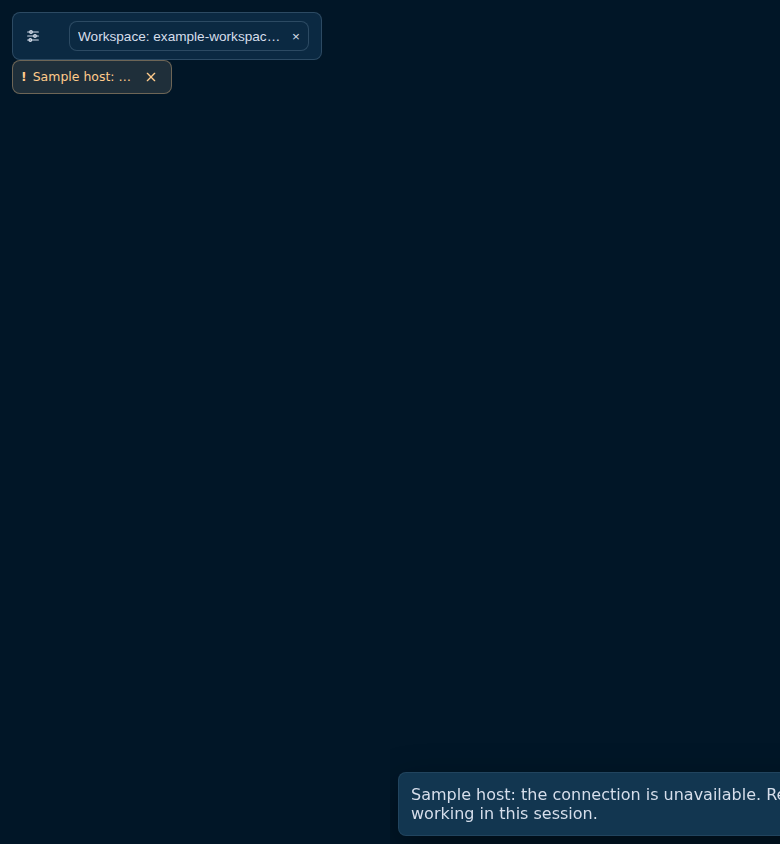
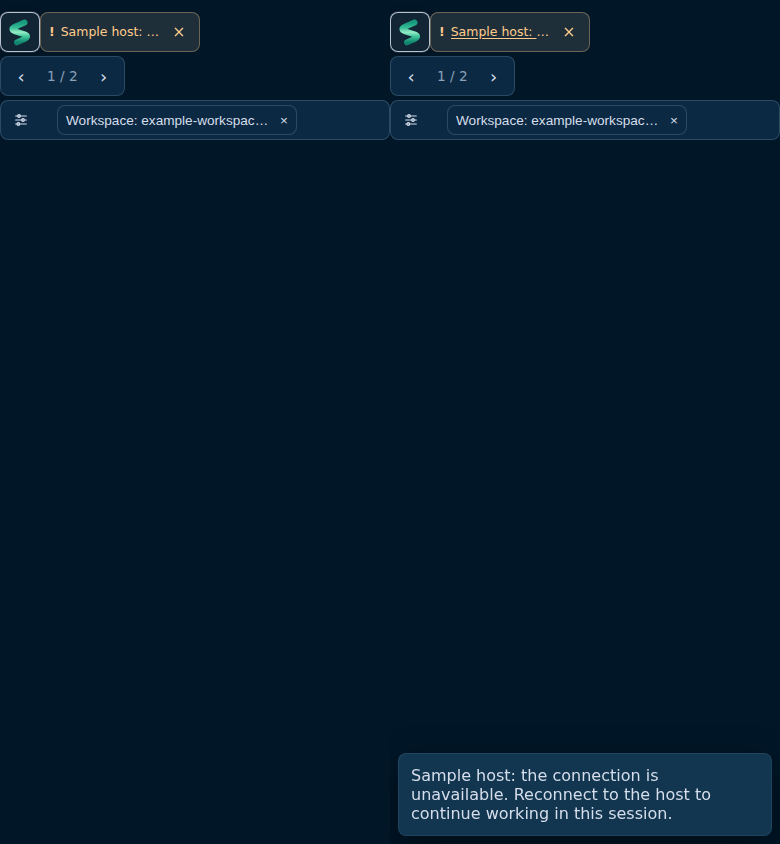
fix(ui): keep notice details inside the phone viewport
- Anchor the visually hidden label within the compact notice button.
- Exercise the production header and check the visual viewport bounds in both themes.

Changed region(s): [[0.0, 0.0, 1.0, 0.1848], [0.4923, 0.8934, 1.0, 1.0]]

diff --git a/packages/ui/test/touchTitleHints.browser.test.ts b/packages/ui/test/touchTitleHints.browser.test.ts
@@ -29,7 +29,8 @@ const fixture = `
   import { ComposerAttachment } from '/src/ComposerAttachment.tsx';
   import { AttachmentFileCard } from '/src/AttachmentFileCard.tsx';
   import { HistoryPanel } from '/src/HistoryPanel.tsx';
-  import { SessionFiltersBar } from '/src/SessionFiltersBar.tsx';
+  import { SessionListNavigator } from '/src/SessionListNavigator.tsx';
+  import { BrandTitle } from '/src/BrandTitle.tsx';
   import { CLEAR_SESSION_FILTERS } from '/src/sessionFilters.ts';
   import { TerminalView } from '/src/TerminalView.tsx';
   import { LiveConversationPanel } from '/src/LiveConversationPanel.tsx';
@@ -46,9 +47,12 @@ const fixture = `
   const filters = {...CLEAR_SESSION_FILTERS, workspaces:[${JSON.stringify(filter)},'another-workspace']};
   function Overview() {
     const [show, setShow] = useState(true);
-    return h(SessionFiltersBar,{mobile:true,compactHeader:true,filters,records:[],workspaceChoicesComplete:false,machines:['sample-host'],
-      harnesses:[{id:'codex',label:'Codex'}],onChange:noop,resultCount:0,
-      statusNotice:show ? h(StatusNotice,{inline:true,notice:{kind:'host-offline',message:${JSON.stringify(message)}},onDismiss:()=>setShow(false)}) : null});
+    return h('header',{className:'dash-head workspace-head'},
+      h('div',{className:'workspace-head-start'},
+        h(BrandTitle),
+        h(SessionListNavigator,{mobile:true,filters,records:[],workspaceChoicesComplete:false,machines:['sample-host'],
+          harnesses:[{id:'codex',label:'Codex'}],onChange:noop,resultCount:0,page:1,pageCount:2,onPageChange:noop,
+          statusNotice:show ? h(StatusNotice,{inline:true,notice:{kind:'host-offline',message:${JSON.stringify(message)}},onDismiss:()=>setShow(false)}) : null})));
   }
   function Dock() {
     const [pinned, setPinned] = useState(true);
@@ -143,16 +147,18 @@ test("full details are readable on a touch-width viewport", async t => {
   const readable = (selector: string, value: string) => page.evaluate<boolean>(`(() => {
     const node = document.querySelector(${JSON.stringify(selector)});
     if (!node?.innerText.includes(${JSON.stringify(value)})) return false;
-    const box = node.getBoundingClientRect();
-    return box.width > 0 && box.height > 0 && box.left >= 0 && box.right <= innerWidth
+    const width = Math.min(document.documentElement.clientWidth, visualViewport?.width ?? Infinity);
+    const fits = ({width: w,height,left,right}) => w > 0 && height > 0 && left >= 0 && right <= width;
+    const panel = node.closest('[role="dialog"]');
+    return fits(node.getBoundingClientRect()) && (!panel || fits(panel.getBoundingClientRect()))
       && node.scrollWidth <= node.clientWidth + 1 && getComputedStyle(node).whiteSpace !== "nowrap";
   })()`);
   for (const theme of ["paper", "dark"]) {
     const run = (view: string, check: () => Promise<void>) => t.test(`${theme} ${view}`, async () => {
       const file = join(dir, `${theme}-${view}.html`);
-      writeFileSync(file, `<!doctype html><html data-theme="${theme}" data-phone-tier="true" data-phone-header="true" data-android-desktop="true">
+      writeFileSync(file, `<!doctype html><html data-theme="${theme}" data-phone-tier="true" data-phone-header="true" data-android-desktop="${view !== "overview"}">
         <meta charset="utf-8"><meta name="viewport" content="width=device-width,initial-scale=1">
-        <style>${css} #root{padding:12px} .session-filter-status-row{height:34px;position:relative}</style>
+        <style>${css} #root{padding:12px}</style>
         <div id="root"></div><script>localStorage.setItem("ac.themeMode", ${JSON.stringify(theme)});</script>
         <script>${code.replaceAll("</script", "<\\/script")}</script>`);
       await page.navigate(`${pathToFileURL(file).href}#${view}`);
@@ -160,9 +166,19 @@ test("full details are readable on a touch-width viewport", async t => {
     });
     await run("overview", async () => {
       await wait(".connection-notice");
+      const assertPhoneViewport = async () => {
+        const dimensions = await page.evaluate(`({
+          client: document.documentElement.clientWidth,
+          visual: visualViewport?.width,
+          scroll: document.documentElement.scrollWidth,
+        })`);
+        assert.deepEqual(dimensions, { client: 390, visual: 390, scroll: 390 }, "the header stays within the actual phone viewport");
+      };
+      await assertPhoneViewport();
       const trigger = 'button[aria-label="Show status notice details"]';
       await tap(trigger);
       await save(theme, "notice");
+      await assertPhoneViewport();
       const showsFullMessage = await readable(".connection-notice-detail", message);
       if (showsFullMessage) {
         await page.pressEscape();
@@ -171,8 +187,11 @@ test("full details are readable on a touch-width viewport", async t => {
       await tap(".session-filter-search-open");
       await wait(".session-filter-panel");
       await save(theme, "filters");
+      await assertPhoneViewport();
       assert.equal(showsFullMessage, true, "pressing the notice shows the complete message");
       assert.equal(await readable(".session-filter-panel .session-filter-chip-label", `${filter}, another-workspace`), true);
+      await tap('.session-filter-panel button[aria-label="Close session filters"]');
+      assert.equal(await page.evaluate("!document.querySelector('.session-filter-panel')"), true, "the close button stays inside the phone viewport");
     });
     await run("history", async () => {
       await wait(".history-row");

diff --git a/packages/ui/src/styles.css b/packages/ui/src/styles.css
@@ -3340,6 +3340,8 @@ textarea {
 .connection-notice-icon { font-weight: var(--weight-bold); }
 .connection-notice-message { min-width: 0; overflow-wrap: anywhere; }
 .connection-notice-trigger {
+  /* Keep the screen-reader label inside the clipped message. */
+  position: relative;
   appearance: none;
   padding: 0;
   border: 0;
